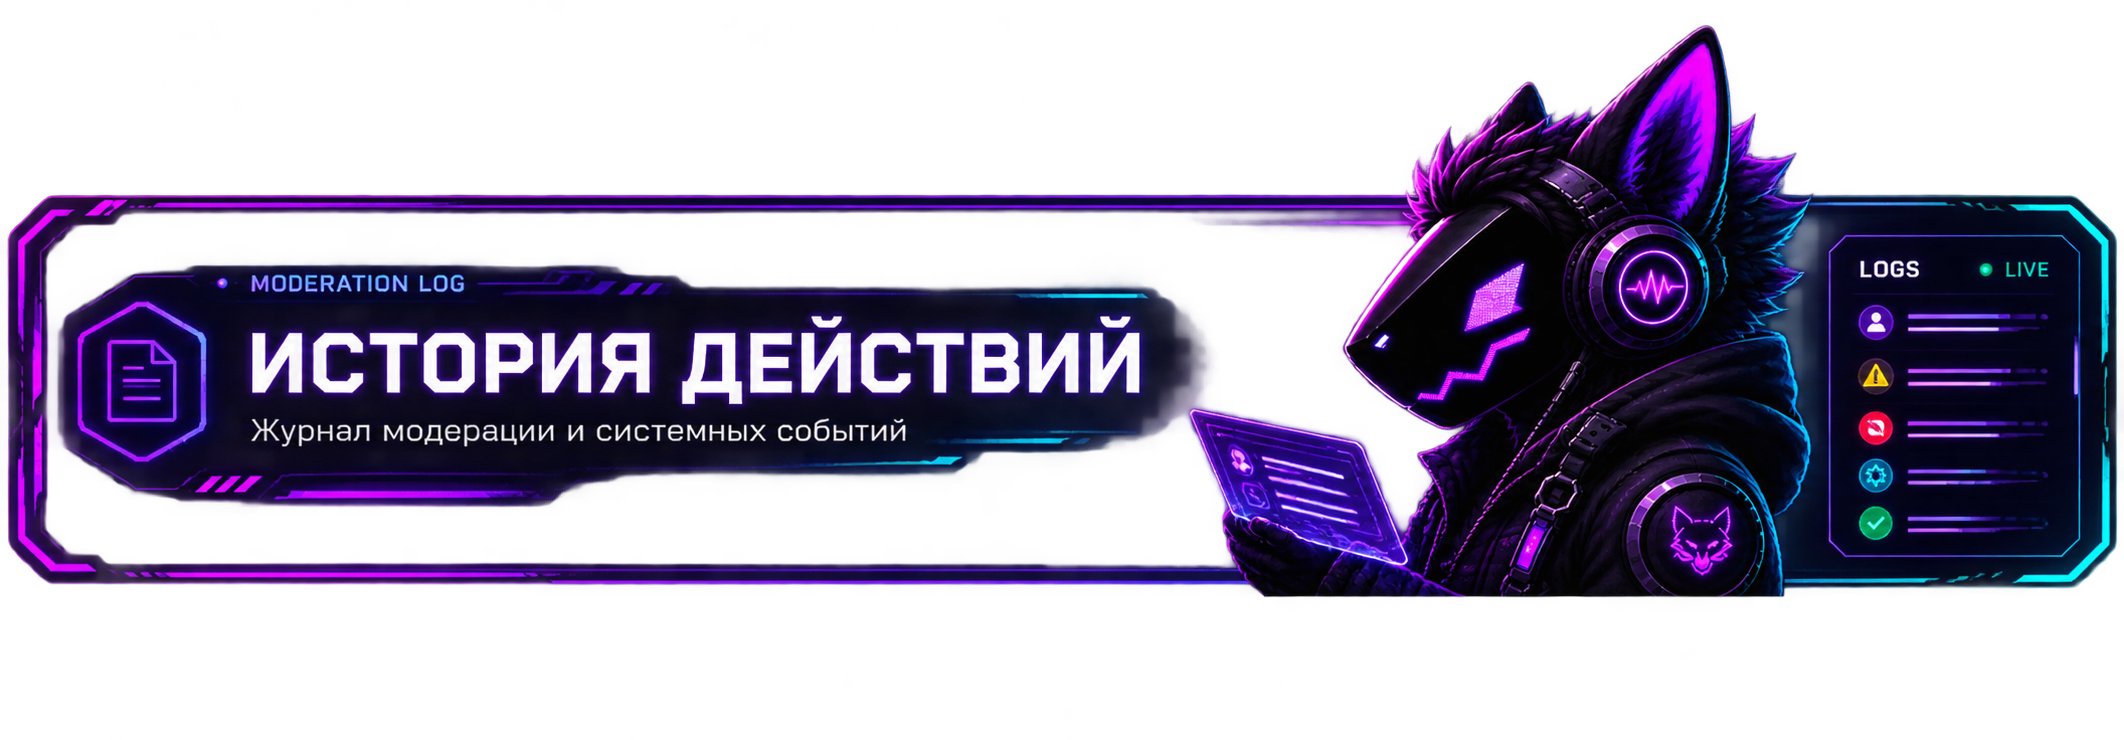
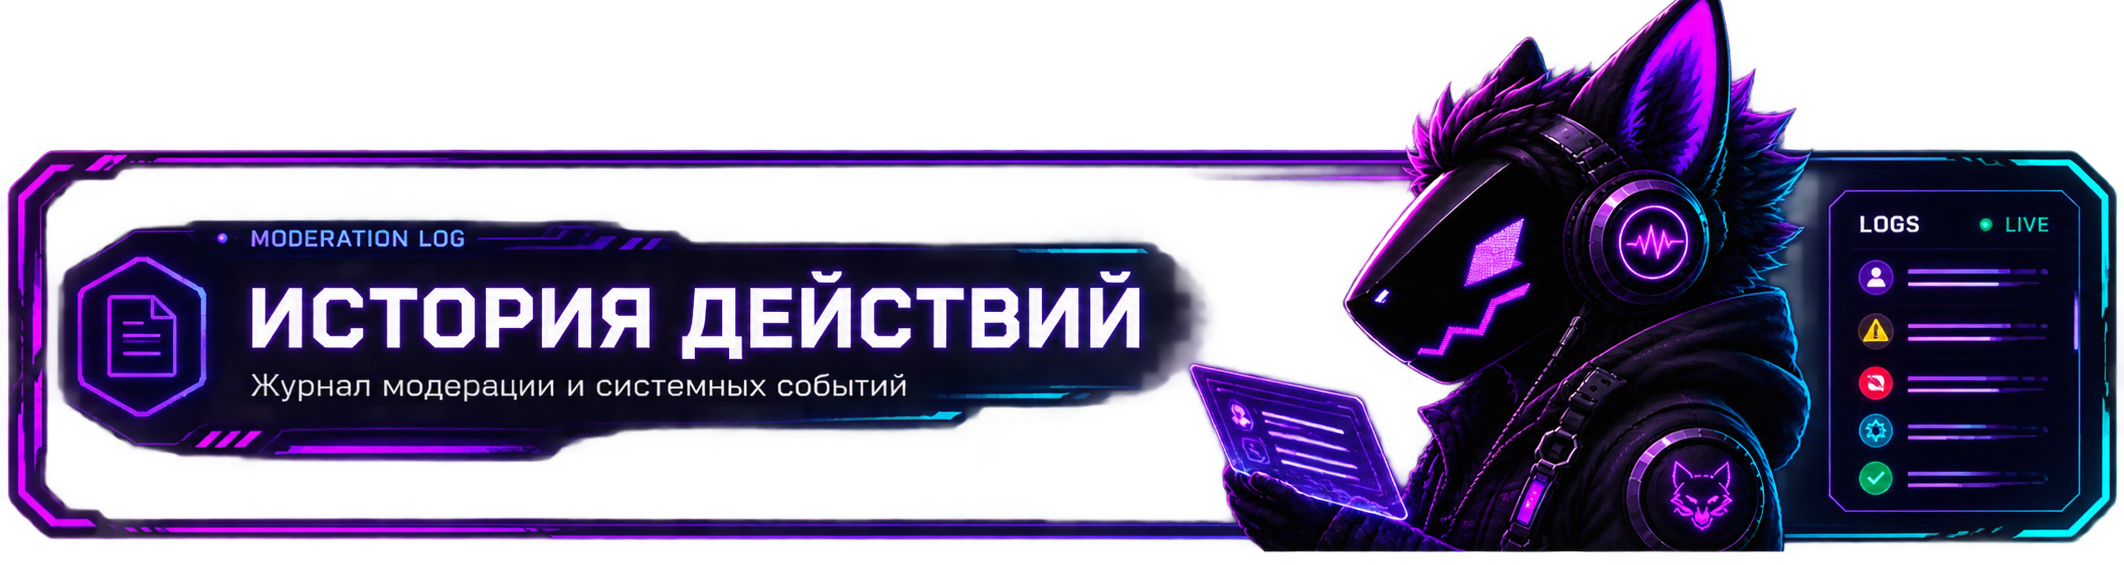
Add files via upload

diff --git a/static/history.css b/static/history.css
@@ -1,1 +1,1 @@
-.history-main{padding:35px 28px 25px}.history-hero{width:100%;height:190px;margin-bottom:22px;overflow:hidden;border:1px solid rgba(0,255,225,.16);border-radius:16px;background:rgba(2,8,18,.72);box-shadow:0 0 30px rgba(86,0,255,.08)}.history-banner{display:block;width:100%;height:100%;object-fit:cover;object-position:center}.history-hero img{max-width:none}.history-toolbar{padding:12px;display:flex;align-items:center;gap:14px;margin-bottom:12px}.search{display:flex;align-items:center;gap:9px;flex:1;min-width:300px;padding:7px 8px 7px 13px;border:1px solid rgba(0,255,225,.15);border-radius:11px;background:rgba(3,13,17,.7)}.search span{font-size:21px;color:#607879}.search input{flex:1;min-width:0;border:0;outline:0;background:transparent;color:#eaffff;font-size:11px}.search input::placeholder{color:#526a6b}.search a{color:#647d7e;text-decoration:none;font-size:18px}.search button{border:0;border-radius:8px;padding:9px 14px;background:#00ffe1;color:#00110f;font-weight:900;cursor:pointer}.filters{display:flex;gap:6px;flex-wrap:wrap}.filters a{padding:8px 9px;border:1px solid rgba(255,255,255,.06);border-radius:8px;color:#698384;text-decoration:none;font-size:8px;white-space:nowrap;background:rgba(0,0,0,.15)}.filters a:hover,.filters a.selected{color:#00ffe1;border-color:rgba(0,255,225,.25);background:rgba(0,255,225,.05)}.error-box{padding:12px 14px;border:1px solid rgba(255,80,110,.3);border-radius:11px;background:rgba(100,20,35,.2);color:#ff9bac;margin-bottom:12px;font-size:11px}.history-panel{padding:16px 18px}.history-head{display:flex;align-items:end;justify-content:space-between;margin-bottom:12px}.history-head h2{margin:5px 0 0;font-size:18px}.panel-kicker{color:#00dccc;font-size:8px;font-weight:900;letter-spacing:1.5px}.history-count{color:#5d7677;font-size:9px}.history-row{display:grid;grid-template-columns:38px 1.35fr 2fr .75fr 90px 20px;align-items:center;gap:12px;padding:12px 7px;border-top:1px solid rgba(255,255,255,.045);color:#dff8f8;text-decoration:none;transition:.15s}.history-row:hover{background:rgba(0,255,225,.035);border-radius:10px}.history-icon{width:34px;height:34px;border-radius:9px;display:grid;place-items:center;background:rgba(0,255,225,.04)}.history-icon.warn{background:rgba(255,210,60,.08)}.history-icon.mute{background:rgba(150,160,255,.08)}.history-icon.ban{background:rgba(255,80,110,.08)}.history-icon.kick{background:rgba(190,150,255,.08)}.history-user strong{display:block;font-size:10px;white-space:nowrap;overflow:hidden;text-overflow:ellipsis}.history-user small{display:block;color:#536d6e;font-size:8px;margin-top:3px}.history-action b{display:block;font-size:9px;text-transform:uppercase}.history-action span{display:block;color:#607879;font-size:9px;margin-top:3px;white-space:nowrap;overflow:hidden;text-overflow:ellipsis}.history-action b.warn{color:#ffd45e}.history-action b.mute{color:#aabaff}.history-action b.ban{color:#ff8295}.history-action b.kick{color:#cbb7ff}.history-action b.unwarn{color:#9ed9b8}.history-action b.unmute,.history-action b.unban{color:#6de2d0}.history-mod small{display:block;color:#4f696a;font-size:7px;letter-spacing:1px}.history-mod b{display:block;color:#9bb6b7;font-size:9px;margin-top:4px}.history-row time{color:#526a6b;font-size:8px;text-align:right;line-height:1.6}.arrow{color:#00ffe1;text-align:right}.empty-history{text-align:center;padding:65px 20px;color:#5d7677}.empty-history div{font-size:30px}.empty-history h3{color:#a9c0c0;font-size:15px;margin:10px 0 5px}.empty-history p{font-size:9px;margin:0}@media(max-width:1050px){.history-toolbar{align-items:stretch;flex-direction:column}.search{min-width:0}.history-row{grid-template-columns:38px 1fr 1.4fr 70px 20px}.history-mod{display:none}}@media(max-width:700px){.history-main{padding:25px 15px}.history-hero{align-items:start;flex-direction:column}.history-row{grid-template-columns:35px 1fr 20px}.history-action,.history-row time{display:none}}
+.history-banner{width:100%;margin:0 0 22px;line-height:0;overflow:hidden;border-radius:14px;background:rgba(0,0,0,.16)}.history-banner img{display:block;width:100%;height:auto;max-width:none;object-fit:contain;object-position:center;}.history-main{padding:35px 28px 25px}.history-hero{display:flex;justify-content:space-between;align-items:end;gap:20px;margin-bottom:22px}.history-hero h1{font-size:36px;margin:7px 0}.history-hero p{color:#789092;font-size:12px;margin:0}.online-pill{padding:8px 12px;border:1px solid rgba(0,255,225,.18);border-radius:999px;color:#79bdbc;font-size:8px;letter-spacing:1px;background:rgba(0,20,23,.6)}.online-pill i{display:inline-block;width:6px;height:6px;border-radius:50%;background:#00e6bf;box-shadow:0 0 9px #00e6bf;margin-right:5px}.history-toolbar{padding:12px;display:flex;align-items:center;gap:14px;margin-bottom:12px}.search{display:flex;align-items:center;gap:9px;flex:1;min-width:300px;padding:7px 8px 7px 13px;border:1px solid rgba(0,255,225,.15);border-radius:11px;background:rgba(3,13,17,.7)}.search span{font-size:21px;color:#607879}.search input{flex:1;min-width:0;border:0;outline:0;background:transparent;color:#eaffff;font-size:11px}.search input::placeholder{color:#526a6b}.search a{color:#647d7e;text-decoration:none;font-size:18px}.search button{border:0;border-radius:8px;padding:9px 14px;background:#00ffe1;color:#00110f;font-weight:900;cursor:pointer}.filters{display:flex;gap:6px;flex-wrap:wrap}.filters a{padding:8px 9px;border:1px solid rgba(255,255,255,.06);border-radius:8px;color:#698384;text-decoration:none;font-size:8px;white-space:nowrap;background:rgba(0,0,0,.15)}.filters a:hover,.filters a.selected{color:#00ffe1;border-color:rgba(0,255,225,.25);background:rgba(0,255,225,.05)}.error-box{padding:12px 14px;border:1px solid rgba(255,80,110,.3);border-radius:11px;background:rgba(100,20,35,.2);color:#ff9bac;margin-bottom:12px;font-size:11px}.history-panel{padding:16px 18px}.history-head{display:flex;align-items:end;justify-content:space-between;margin-bottom:12px}.history-head h2{margin:5px 0 0;font-size:18px}.panel-kicker{color:#00dccc;font-size:8px;font-weight:900;letter-spacing:1.5px}.history-count{color:#5d7677;font-size:9px}.history-row{display:grid;grid-template-columns:38px 1.35fr 2fr .75fr 90px 20px;align-items:center;gap:12px;padding:12px 7px;border-top:1px solid rgba(255,255,255,.045);color:#dff8f8;text-decoration:none;transition:.15s}.history-row:hover{background:rgba(0,255,225,.035);border-radius:10px}.history-icon{width:34px;height:34px;border-radius:9px;display:grid;place-items:center;background:rgba(0,255,225,.04)}.history-icon.warn{background:rgba(255,210,60,.08)}.history-icon.mute{background:rgba(150,160,255,.08)}.history-icon.ban{background:rgba(255,80,110,.08)}.history-icon.kick{background:rgba(190,150,255,.08)}.history-user strong{display:block;font-size:10px;white-space:nowrap;overflow:hidden;text-overflow:ellipsis}.history-user small{display:block;color:#536d6e;font-size:8px;margin-top:3px}.history-action b{display:block;font-size:9px;text-transform:uppercase}.history-action span{display:block;color:#607879;font-size:9px;margin-top:3px;white-space:nowrap;overflow:hidden;text-overflow:ellipsis}.history-action b.warn{color:#ffd45e}.history-action b.mute{color:#aabaff}.history-action b.ban{color:#ff8295}.history-action b.kick{color:#cbb7ff}.history-action b.unwarn{color:#9ed9b8}.history-action b.unmute,.history-action b.unban{color:#6de2d0}.history-mod small{display:block;color:#4f696a;font-size:7px;letter-spacing:1px}.history-mod b{display:block;color:#9bb6b7;font-size:9px;margin-top:4px}.history-row time{color:#526a6b;font-size:8px;text-align:right;line-height:1.6}.arrow{color:#00ffe1;text-align:right}.empty-history{text-align:center;padding:65px 20px;color:#5d7677}.empty-history div{font-size:30px}.empty-history h3{color:#a9c0c0;font-size:15px;margin:10px 0 5px}.empty-history p{font-size:9px;margin:0}@media(max-width:1050px){.history-toolbar{align-items:stretch;flex-direction:column}.search{min-width:0}.history-row{grid-template-columns:38px 1fr 1.4fr 70px 20px}.history-mod{display:none}}@media(max-width:700px){.history-main{padding:25px 15px}.history-hero{align-items:start;flex-direction:column}.history-row{grid-template-columns:35px 1fr 20px}.history-action,.history-row time{display:none}}

diff --git a/templates/history.html b/templates/history.html
@@ -14,8 +14,8 @@
 <div class="admin-main-wrap">
 {% include '_admin_topbar.html' %}
 <main class="history-main">
-  <section class="history-hero" aria-label="История действий">
-    <img src="{{ url_for('static', filename='history_banner_bg.png') }}" alt="История действий" class="history-banner">
+  <section class="history-banner" aria-label="История действий">
+    <img src="{{ url_for('static', filename='history_banner_bg.png') }}" alt="История действий — журнал модерации и системных событий">
   </section>
 
   <section class="history-toolbar panel">
